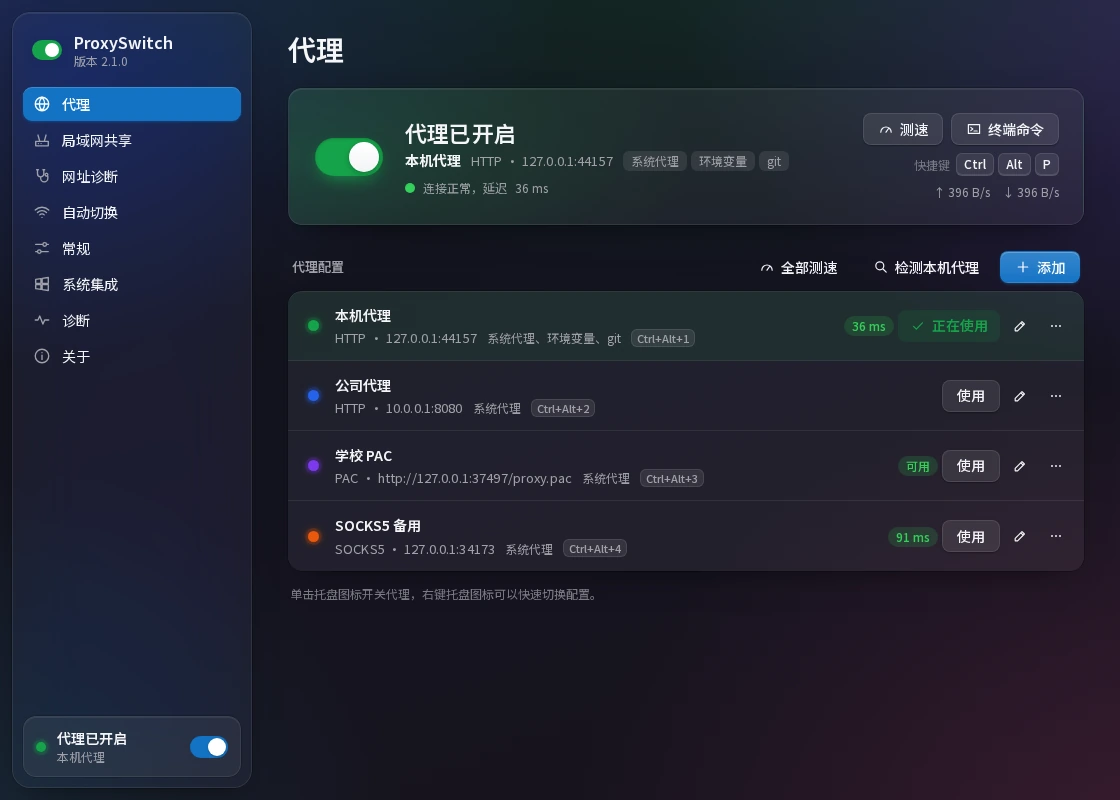
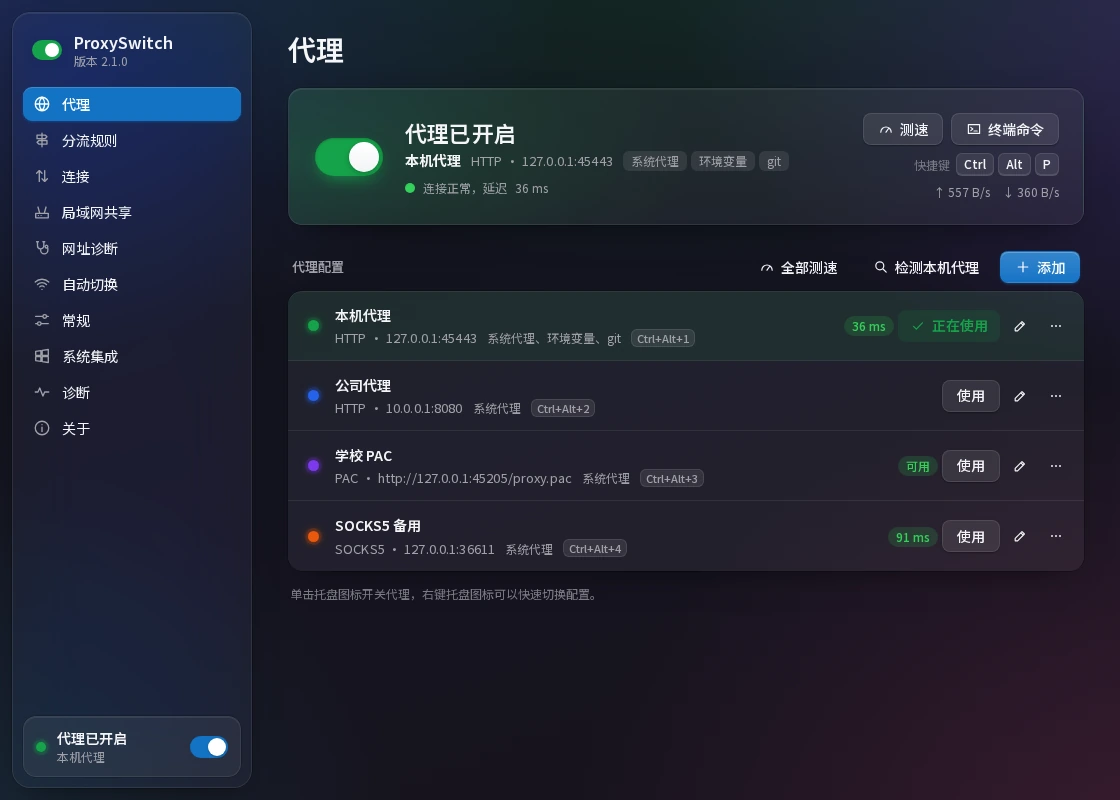
feat: look up the program behind every core connection
The connections page shows which program opened each connection, but
find-process-mode was "strict", so mihomo only looked processes up when a
program-based custom rule existed. Use "always", as the macOS version does,
and check in the core test that a connection shows the test binary.

Also refresh the README screenshots, whose sidebar now lists the rules and
connections pages.

Claude-Session: https://claude.ai/code/session_01TDgMVXppANaFWMS5TFKVfk

diff --git a/connections_test.go b/connections_test.go
@@ -296,6 +296,10 @@ func TestSettingsConnectionsWithCore(t *testing.T) {
 	if len(found.Chains) == 0 || found.Chains[0] != "节点 A" || found.Chains[len(found.Chains)-1] != coreTopGroup || found.Port != "80" || found.Network != "TCP" || found.Share || found.Rule == "" {
 		t.Errorf("连接的出口、规则不对：%+v", found)
 	}
+	// 内核查找每个连接来自哪个程序：这条连接是测试程序自己发起的。
+	if executable, err := os.Executable(); err == nil && !strings.EqualFold(found.Process, filepath.Base(executable)) {
+		t.Errorf("连接应显示发起它的程序 %s：%q", filepath.Base(executable), found.Process)
+	}
 	if view.Session.Download == 0 {
 		t.Errorf("应有内核这次运行的总流量：%+v", view.Session)
 	}

diff --git a/core_config.go b/core_config.go
@@ -279,8 +279,8 @@ func coreConfigText(settings CoreSettings, controller, secret string) []byte {
 		LogLevel:      "warning",
 		UnifiedDelay:  true,
 		TcpConcurrent: true,
-		// 只在有按程序分流的规则时查找连接来自哪个程序。
-		FindProcessMode:    "strict",
+		// 查找每个连接来自哪个程序：连接页显示程序名，按程序分流的规则也要用。
+		FindProcessMode:    "always",
 		ExternalController: controller,
 		Secret:             secret,
 		// 选中的节点由 ProxySwitch 记在配置文件里，每次启动后重新设置，不用内核自己记。

diff --git a/CHANGELOG.md b/CHANGELOG.md
@@ -11,7 +11,7 @@
   - 「其余流量」（Quan X 的 final）：默认跟随规则文件里的 FINAL，也可以固定走节点、直连、拦截或某个策略组。
   - 规则集每天自动更新，可以全部更新或单独更新，列表里显示规则数、更新时间、引用的列表和跳过的规则；GitHub 上的规则经节点下载不了时直连，直连时先试 jsDelivr 镜像；还没下载好的规则集先跳过，内核照常启动，下好了自动生效；本机的规则文件改了自动重新读取。
   - 自定义规则从「代理」页移到这里；正在用的订阅配置是全局代理时页面上会提醒，可以一键切回按规则分流。
-- 「设置 → 连接」：经内置代理内核的连接每两秒刷新一次，本机的连接显示发起它的程序，局域网共享的设备显示它的 IP；每条有目标、命中的规则（规则集显示名字）、走的出口（经过策略组时是「流媒体 → 香港 01」）、流量和时长，可以按域名、程序、设备、规则或节点筛选。每条连接的菜单里可以让这个网站或程序固定走某个去向、诊断它，或者断开它，也可以全部断开；「最近的连接」把短连接也记下来，最多 200 条。
+- 「设置 → 连接」：经内置代理内核的连接每两秒刷新一次，本机的连接显示发起它的程序（内核现在对每个连接都查找来源程序，以前只在有按程序分流的规则时查），局域网共享的设备显示它的 IP；每条有目标、命中的规则（规则集显示名字）、走的出口（经过策略组时是「流媒体 → 香港 01」）、流量和时长，可以按域名、程序、设备、规则或节点筛选。每条连接的菜单里可以让这个网站或程序固定走某个去向、诊断它，或者断开它，也可以全部断开；「最近的连接」把短连接也记下来，最多 200 条。
   - 流量统计：按节点（以及直连、上游代理）累计上行和下行，保存在 `traffic.json`，内核重启后接着算，可以清零；同时显示内核这次运行以来的总流量。
   - 出口 IP：打开连接页时查经节点出去的地址和本机直连的公网地址，显示国家（中文名）、城市和运营商，换了节点后自动重查；经 ip.sb、ipinfo.io、ipapi.co 依次查询。查询按规则直连时会说明，并显示这次实际走的出口。
 - 策略组（Quantumult X 的 policy）：在「设置 → 代理」里建「流媒体」「Telegram」这样的组，给某类流量单独选节点；自定义规则、规则集和「其余流量」的去向都可以选某个策略组。
